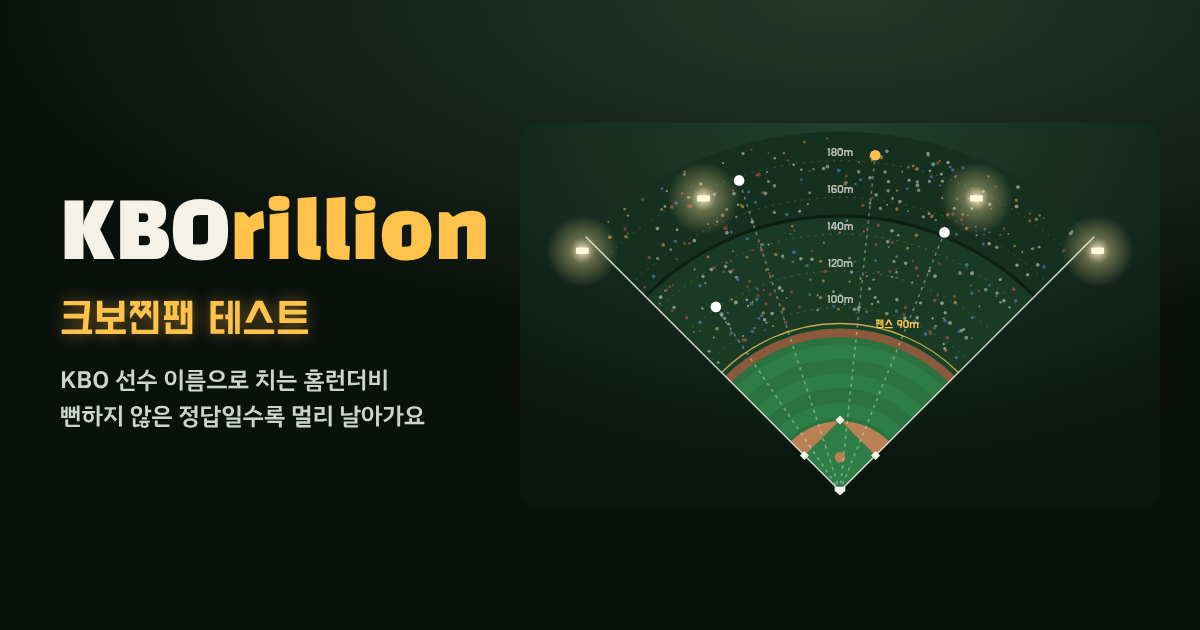
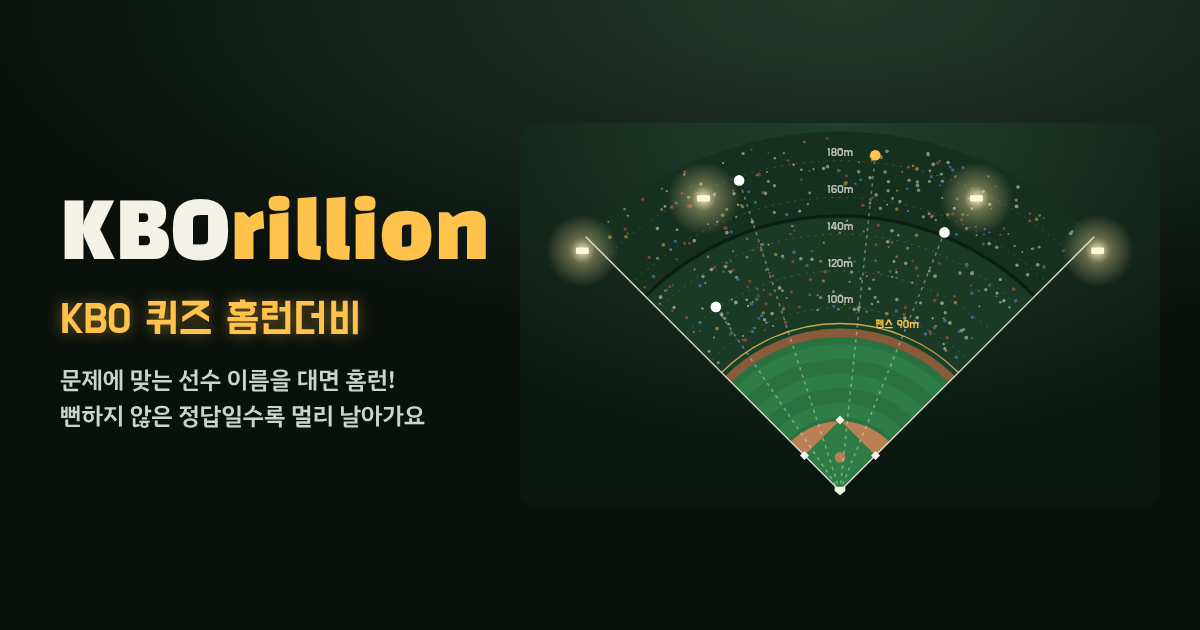
미리보기 부제를 'KBO 퀴즈 홈런더비'로, '크보찐팬 테스트'는 공유 문구에만 남김
Claude-Session: https://claude.ai/code/session_01Px1NiXYGhhvAvaWGWJcnKH

Changed region(s): [[0.0308, 0.4524, 0.3083, 0.5429], [0.0308, 0.573, 0.3392, 0.6333]]

diff --git a/scripts/make_og.js b/scripts/make_og.js
@@ -1,0 +1,16 @@
+// 링크 미리보기 이미지 public/og.png(1200x630)를 다시 만드는 스크립트
+// 실행: (cd public && python3 -m http.server 8765) 를 켜 둔 채로  node scripts/make_og.js public/og.png
+// 게임 화면의 야구장 그림(drawField)을 가져와 제목·부제와 함께 찍음. Playwright 필요
+const {chromium}=require('playwright');
+(async()=>{const b=await chromium.launch();const p=await b.newPage({viewport:{width:1200,height:630}});
+await p.goto('http://localhost:8765/');await p.waitForTimeout(1500);
+const svg=await p.evaluate(()=>{drawField();/* 공 몇 개 */for(const [m,d] of [[178,-18],[152,22],[121,-34],[184,6]]){const [x,y]=pt(m,d);el("circle",{cx:x,cy:y,r:5,fill:m>=180?"#ffc24a":"#fff"},svg.layer);el("line",{x1:HX,y1:HY,x2:x,y2:y,stroke:"#fff","stroke-width":1.5,"stroke-dasharray":"3 4",opacity:.35},svg.layer);}return document.getElementById("svg").outerHTML;});
+await p.setContent(`<!doctype html><html><head><meta charset="utf-8"><link rel="stylesheet" href="https://fonts.googleapis.com/css2?family=Black+Han+Sans&family=Do+Hyeon&family=IBM+Plex+Sans+KR:wght@600&display=swap">
+<style>:root{--grass:#2f7d46;--grass-2:#2a7240;--dirt:#b98153;--chalk:#f4f1e6;--led:#ffc24a;--ball:#fff;--track:#8a5a3a;--wall:#14432a;--dim:#9db3a5;--out:#ff5a4a}body{margin:0;width:1200px;height:630px;overflow:hidden;background:radial-gradient(120% 90% at 70% 0%,#22392b 0%,#0a110d 60%);color:#f4f1e6;font-family:"IBM Plex Sans KR";display:flex;align-items:center}
+.l{width:460px;padding-left:60px;flex:none;box-sizing:content-box}.r{flex:1;padding-right:40px}.r svg{width:100%;height:auto;display:block;border-radius:16px}
+h1{font-family:"Black Han Sans";font-weight:400;font-size:78px;line-height:1;margin:0 0 18px}h1 span{color:#ffc24a}
+.t{font-family:"Do Hyeon";font-size:44px;color:#ffc24a;margin:0 0 14px;text-shadow:0 0 14px rgba(255,194,74,.45)}
+.s{font-size:24px;color:#c9d6cc;margin:0;line-height:1.5}</style></head><body>
+<div class="l"><h1>KBO<span>rillion</span></h1><p class="t">KBO 퀴즈 홈런더비</p><p class="s">문제에 맞는 선수 이름을 대면 홈런!<br>뻔하지 않은 정답일수록 멀리 날아가요</p></div>
+<div class="r">${svg}</div></body></html>`);
+await p.waitForTimeout(2500);await p.screenshot({path:process.argv[2]});await b.close();})();

diff --git a/public/index.html b/public/index.html
@@ -4,10 +4,10 @@
 <meta charset="utf-8">
 <meta name="viewport" content="width=device-width,initial-scale=1,viewport-fit=cover">
 <title>KBOrillion</title>
-<meta name="description" content="크보찐팬 테스트. KBO 선수 이름으로 치는 홈런더비, 뻔하지 않은 정답일수록 멀리 날아가요.">
+<meta name="description" content="KBO 퀴즈 홈런더비. 문제에 맞는 선수 이름을 대면 홈런, 뻔하지 않은 정답일수록 멀리 날아가요.">
 <meta property="og:type" content="website">
-<meta property="og:title" content="KBOrillion · 크보찐팬 테스트">
-<meta property="og:description" content="KBO 선수 이름으로 치는 홈런더비. 뻔하지 않은 정답일수록 멀리 날아가요.">
+<meta property="og:title" content="KBOrillion · KBO 퀴즈 홈런더비">
+<meta property="og:description" content="문제에 맞는 선수 이름을 대면 홈런! 뻔하지 않은 정답일수록 멀리 날아가요.">
 <meta property="og:image" content="/og.png">
 <meta property="og:image:width" content="1200">
 <meta property="og:image:height" content="630">
